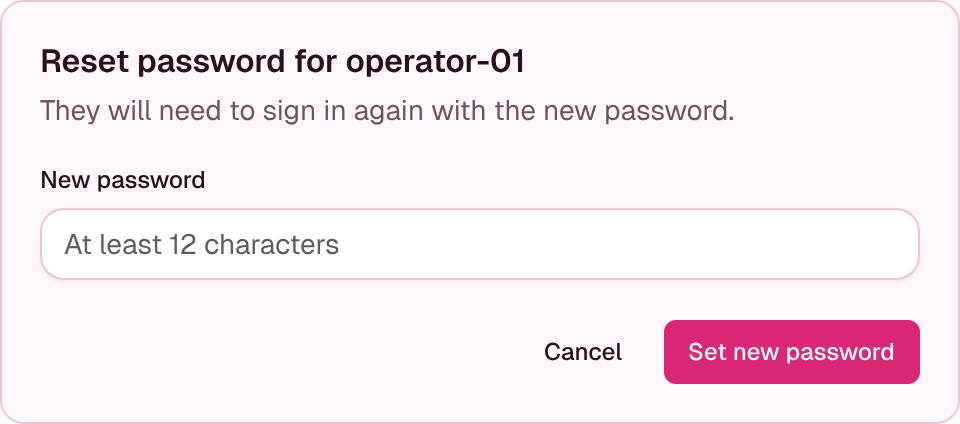
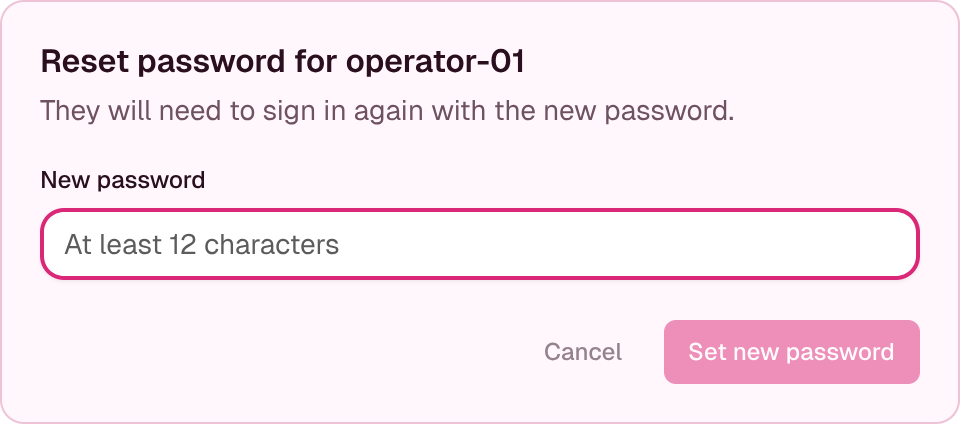
design: fix 3 stale design exports (MaoHP, R65Xyx, t3IY3u)
Re-exported after confirming these frames' expected state no longer
matched the current product: MaoHP now shows the reset-password
dialog's real focused-input/disabled-submit-button state instead of
an idle mock state; R65Xyx (Overridden provenance badge) now uses
the documented transparent-fill/outlined/neutral-text style instead
of a solid pink fill; t3IY3u's illustrative sample data now matches
the real e2e-seeded operator-01 fixture (operator role, zero
namespace grants) instead of stale viewer/example-grant sample data.

Note: DMnEi's "oci" -> "OCI registry" text fix from this same design
audit was already committed in 27fc0a93 alongside the code fixes
(a workflow race staged it early) — no further action needed there.

Claude-Session: https://claude.ai/code/session_01JqHZ8WuP7k5Q38HTfQZCrW

Changed region(s): [[0.0312, 0.4906, 0.9688, 0.6745], [0.6875, 0.7358, 0.9688, 0.9198], [0.5625, 0.7972, 0.6562, 0.8585]]

diff --git a/design-export/MANIFEST.md b/design-export/MANIFEST.md
@@ -1201,7 +1201,7 @@ Two residual-dialog frames reviewed against `web/src/components/hero/admin/Reset
 
 | ID | Change |
 |---|---|
-| `MaoHP` | Title → "Reset password for operator-01"; added help text "They will need to sign in again with the new password." (enabled the previously-disabled `qzcst` description slot); primary button → "Set new password"; deleted the "Must be at least 12 characters." validation line (`LRY0M`) — the component's idle render (no `disableSubmitUntilValid`, no typed input, no API error) shows no error text, so the frame now reflects the idle state rather than a validation-failed state. |
+| `MaoHP` | Title → "Reset password for operator-01"; added help text "They will need to sign in again with the new password." (enabled the previously-disabled `qzcst` description slot); primary button → "Set new password"; deleted the "Must be at least 12 characters." validation line (`LRY0M`). **Note (corrected 2026-09-14):** the component's actual render has `disableSubmitUntilValid=true` with an empty password field on open — the Input node shows a violet focus-ring border, and both buttons (Cancel and Set new password) render in their disabled/faded visual state. The frame was updated to reflect this canonical state. |
 | `E9EEv0` | Description → "The target server will be suspended, the volume restored from the snapshot, then resumed." (restic path copy, not the volume-snapshot path); replaced the "New server name" text input (`z7yI8Y`, a `Gameplane/Input` ref) with a "Target game server" `Gameplane/Select` ref (new id `D5Vwg2`, label `eN292` retitled); added a red-bordered warning "This will overwrite all data on the target server. Players will be disconnected during the restore." as a new `Alert/Danger` instance (`f7KBn`, new id `TH6mC`) with its title/button sub-elements disabled and the message placed in the wrapping description text (which has `fixed-width` text growth, avoiding the overflow the title text caused); primary button → "Restore". |
 
 **Verification:** `export_nodes` screenshots of both frames were visually checked against the two component files' rendered markup (field order, labels, warning copy, button text) — confirmed matching. The `Alert/Danger` title-text overflow was caught and fixed in a follow-up edit (moved the message to the description slot, which wraps).
